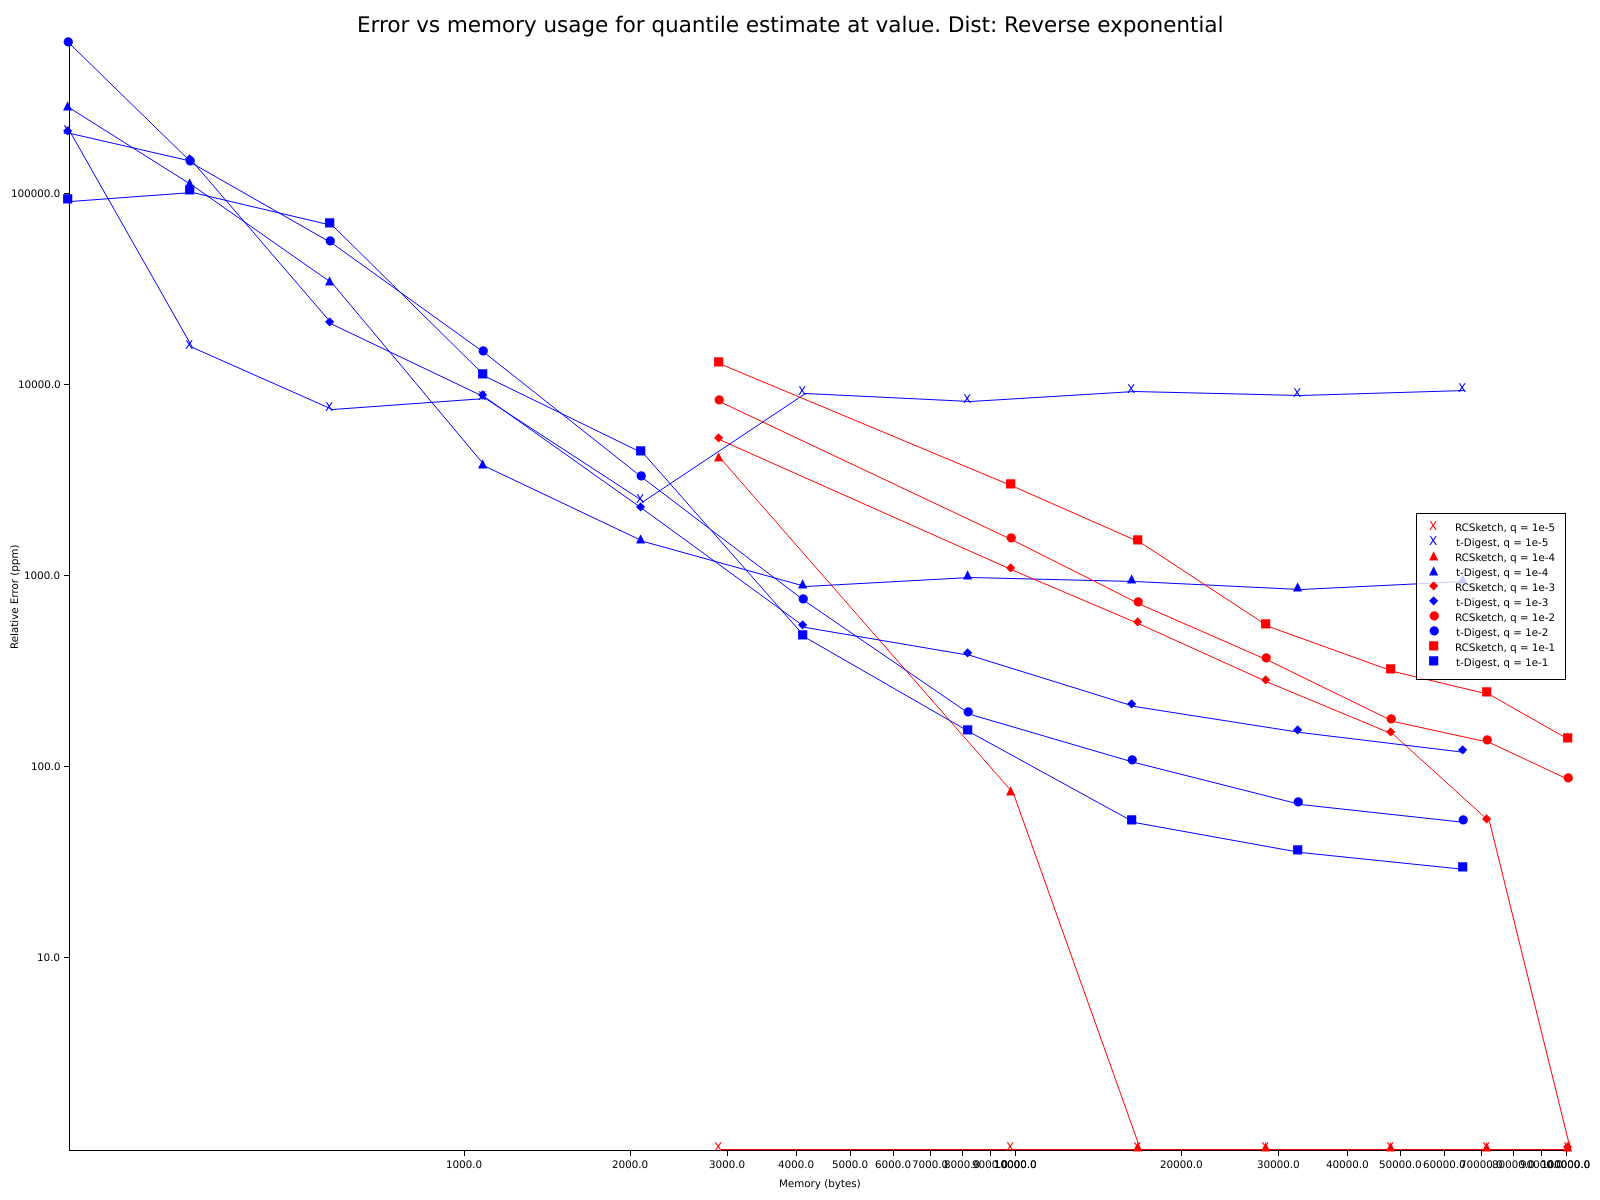
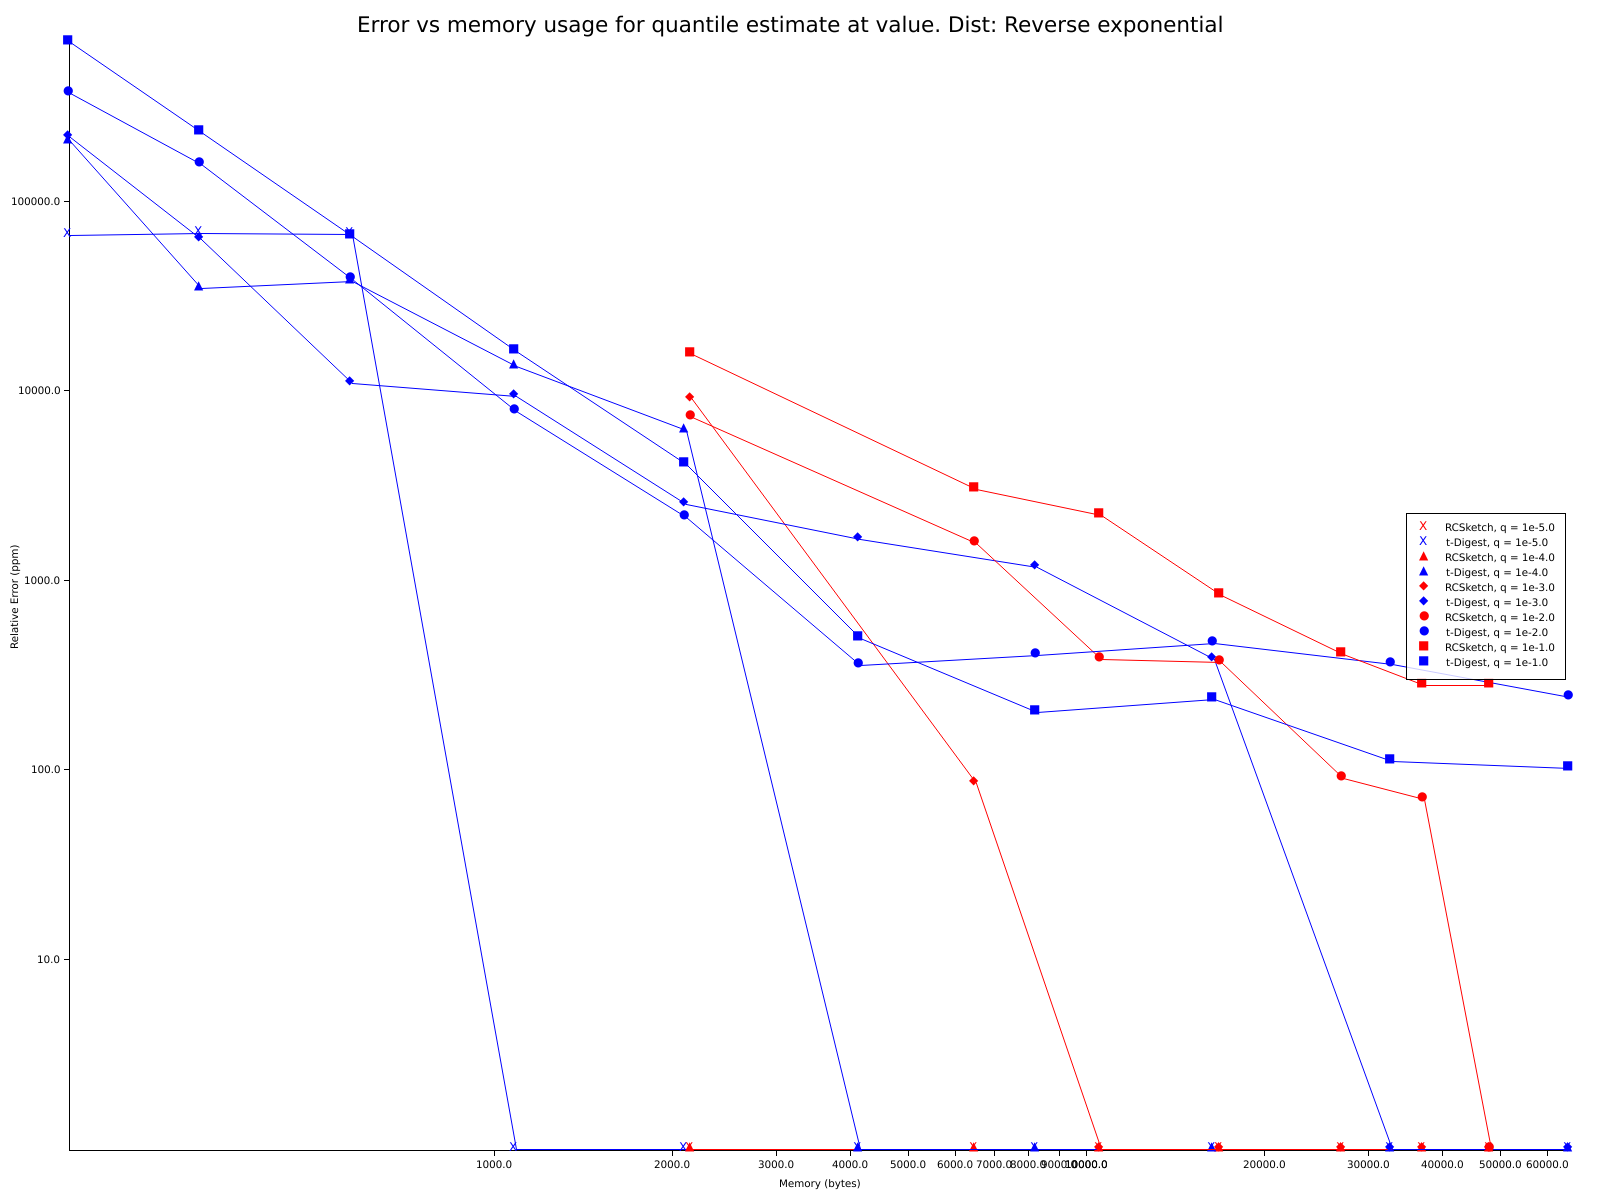
Conversion of quantiles was causing the error

diff --git a/examples/accuracy.rs b/examples/accuracy.rs
@@ -909,6 +909,8 @@ where
         )
     };
 
+    let error_funcf64 = |a: f64, b: f64| f64::max(1.0, relative_error(a, b) * 1e6);
+
     let create_rcsketch = |accuracy_param: T| {
         move |dataset: &[T]| {
             let mut digest = RCSketch::new(dataset.len(), accuracy_param.to_usize().unwrap());
@@ -948,10 +950,10 @@ where
         (1e-1, "■"),
     ]
     .iter()
-    .map(|(q, marker)| (T::from(*q).unwrap(), marker.to_string()))
-    .collect::<Vec<(T, String)>>();
+    .map(|(q, marker)| (f64::from(*q), marker.to_string()))
+    .collect::<Vec<(f64, String)>>();
 
-    let input_size = 1_000_000;
+    let input_size = 100_000;
     let rc_sketch_mem_size = |param| {
         let digest = create_rcsketch(param)(&gen_uniform_tan_vec(input_size));
         digest.owned_size()
@@ -970,9 +972,9 @@ where
                 let accuracy_measurements = sample_digest_accuracy(
                     create_rcsketch(*rcsketch_param),
                     || dataset_func(input_size),
-                    test_func(*quantile),
+                    test_func(T::from(*quantile).unwrap()),
                     error_func,
-                    100,
+                    10,
                 )
                 .unwrap();
                 s.push((
@@ -983,7 +985,7 @@ where
 
             series.push(
                 Line {
-                    name: format!("RCSketch, q = 1e{:?}", quantile.log10().to_i32().unwrap()),
+                    name: format!("RCSketch, q = 1e{:?}", quantile.log10()),
                     datapoints: s,
                     colour: &RED,
                     marker: Some(marker.clone()),
@@ -1001,13 +1003,9 @@ where
                             .map(|x| x.to_f64().unwrap())
                             .collect::<Vec<f64>>()
                     },
-                    test_funcf64((*quantile).to_f64().unwrap()),
-                    |a, b| {
-                        error_func(T::from(a).unwrap(), T::from(b).unwrap())
-                            .to_f64()
-                            .unwrap()
-                    },
-                    100,
+                    test_funcf64(*quantile),
+                    error_funcf64,
+                    10,
                 )
                 .unwrap();
                 s.push((
@@ -1018,7 +1016,7 @@ where
 
             series.push(
                 Line {
-                    name: format!("t-Digest, q = 1e{:?}", quantile.log10().to_i32().unwrap()),
+                    name: format!("t-Digest, q = 1e{:?}", quantile.log10()),
                     datapoints: s,
                     colour: &BLUE,
                     marker: Some(marker.clone()),
@@ -1872,7 +1870,13 @@ fn relative_error<T>(measured: T, actual: T) -> T
 where
     T: Float,
 {
-    // println!("{} {}", measured, actual);
+    println!(
+        "{} {}  | {} {}",
+        measured.to_f32().unwrap(),
+        actual.to_f32().unwrap(),
+        measured.to_f64().unwrap(),
+        actual.to_f64().unwrap()
+    );
     // if ((measured - actual).abs() / actual.abs() >= T::from(1.0).unwrap()) {
     //     println!(
     //         "Error {} {} {}",
